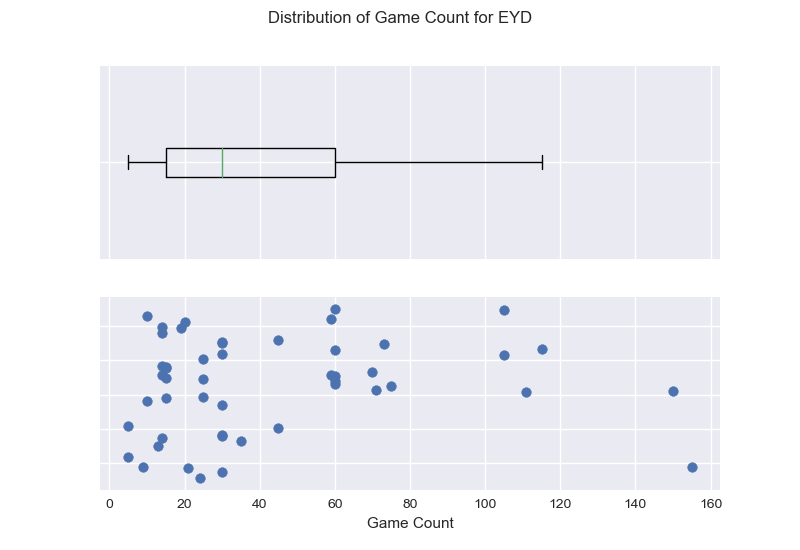
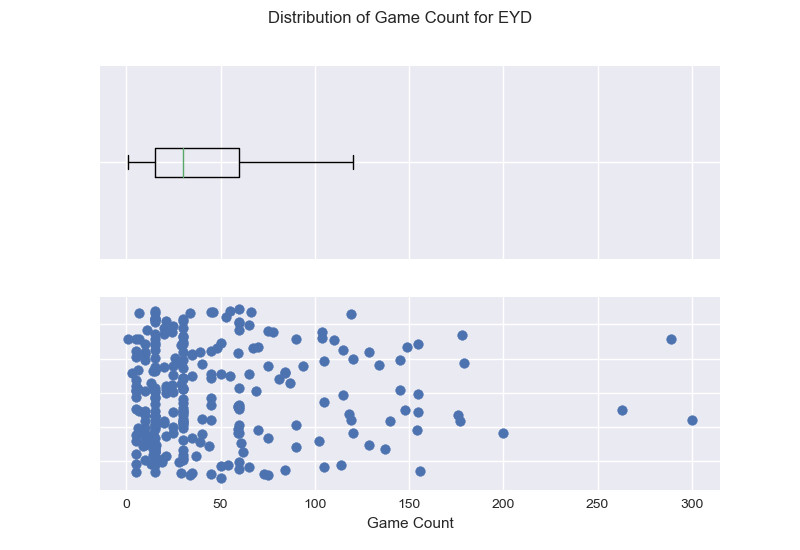
Update README.md

diff --git a/data_visualization/visualize.py b/data_visualization/visualize.py
@@ -10,8 +10,8 @@ def main():
     #visualize_membership()
     counts = get_member_counts()
 
-    visualize_yd_games_played('ayd', 50)
-    visualize_yd_games_played('eyd', 50)
+    visualize_yd_games_played('ayd', 200)
+    visualize_yd_games_played('eyd', 400)
     
 
     return 0
@@ -122,7 +122,7 @@ def visualize_yd_games_played(member_type, n):
     axs[0].boxplot(game_counts, vert=False)
     axs[0].set_yticklabels([])
     
-    plt.savefig('./galvanize/capstone_1/yd_app/data_visualization/visualizations/{}_game_count.png'.format(member_type))
+    plt.savefig('./data_visualization/visualizations/{}_game_count.png'.format(member_type))
     
     return None
 
